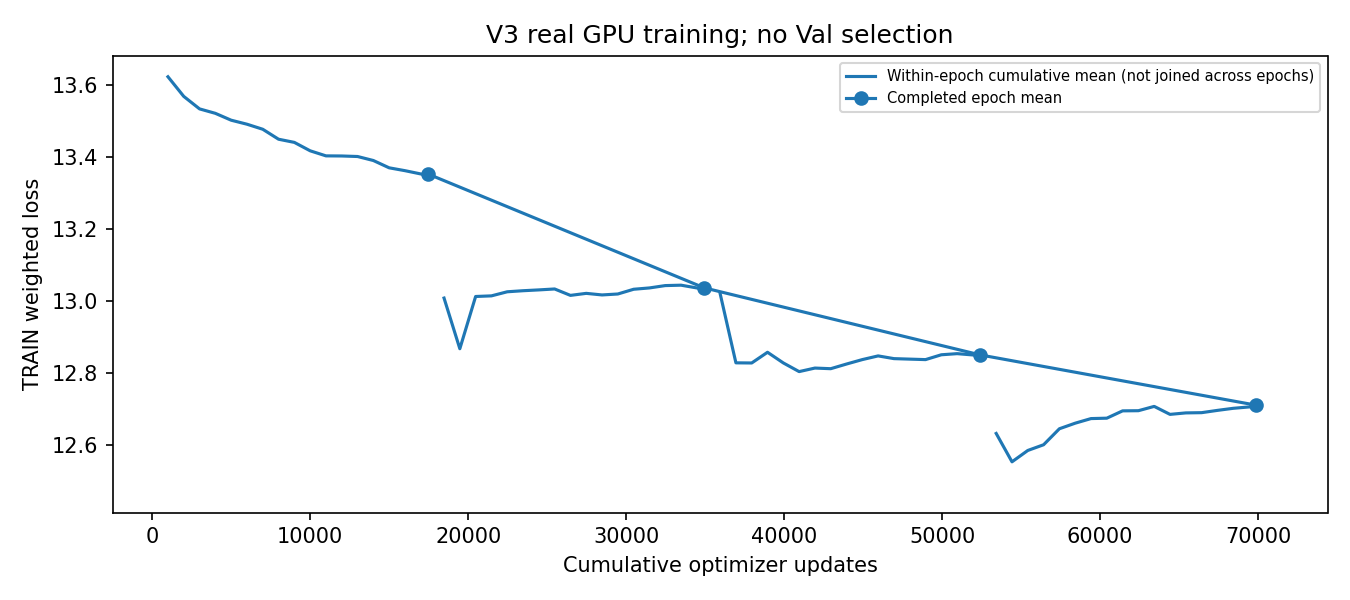
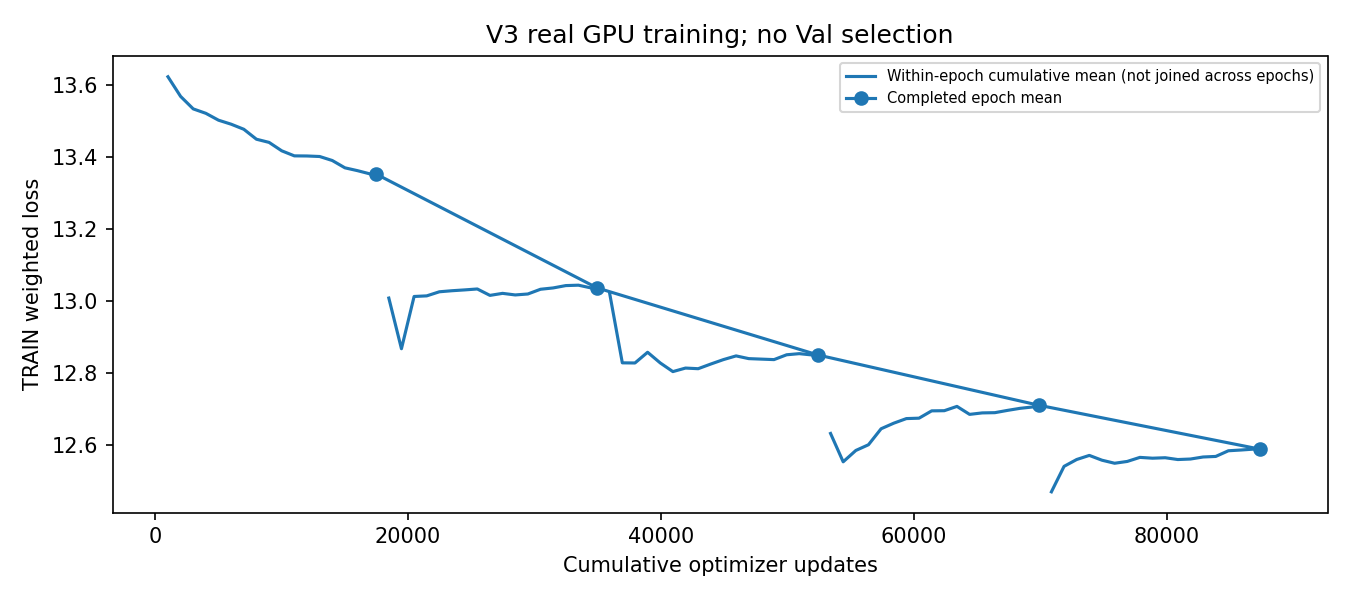
perf(v3): skip ignored RGB encoding for geometry ablation; record fifth epoch and text audit

diff --git a/graphnav/unified_pgvb_v3_runtime.py b/graphnav/unified_pgvb_v3_runtime.py
@@ -17,7 +17,7 @@ from .checkpointing import file_sha256
 from .full_localization import GoalField
 
 class V3CausalBelief:
-    def __init__(self,source_v2,checkpoint,directory,device='cuda'):
+    def __init__(self,source_v2,checkpoint,directory,device='cuda',skip_rgb_encoder=False):
         self.device=torch.device(device);self.directory=Path(directory);self.directory.mkdir(parents=True,exist_ok=True)
         bundle=torch.load(checkpoint,map_location='cpu',weights_only=True)
         if bundle.get('format')!=V3_FORMAT or bundle['manifest']['source_v2_sha256']!=file_sha256(source_v2):
@@ -25,7 +25,8 @@ class V3CausalBelief:
         geom,self.cfg=_load_base(source_v2,device);self.model=UnifiedPGVBV3(geom).to(device)
         self.model.load_state_dict(bundle['model'],strict=True);self.model.eval().requires_grad_(False)
         self.bert=FrozenBERTTokens(self.cfg.text_backbone,device=device,max_length=self.cfg.max_text_length)
-        self.native=ObservedSigLIPMatchingEncoder(device=device,microbatch=1)
+        self.skip_rgb_encoder=bool(skip_rgb_encoder)
+        self.native=None if self.skip_rgb_encoder else ObservedSigLIPMatchingEncoder(device=device,microbatch=1)
         self.frames=[];self.frame_keys=set();self.record=None
 
     @torch.no_grad()
@@ -38,16 +39,16 @@ class V3CausalBelief:
         ds=FullCandidateDataset(path,grid_size=28,max_landmarks=self.cfg.max_landmarks,max_roads=self.cfg.max_roads,max_relations=self.cfg.max_relations,prior_sigma_m=self.cfg.prior_sigma_m,rule_sigma_m=self.cfg.rule_sigma_m,deduplicate_queries=False)
         static,tokens,mask,names=_batch_inputs(collate_full([ds[0]]),self.bert,self.device,'geometry')
         self.static={k:static[k] for k in STATIC_KEYS};self.tokens=tokens.half().float();self.mask=mask;self.names=names.half().float()
-        self.text=self.native.texts([instruction]).half().float();self.bounds=torch.tensor([world_bounds],device=self.device,dtype=torch.float32)
+        self.text=torch.zeros(1,1024,device=self.device) if self.skip_rgb_encoder else self.native.texts([instruction]).half().float();self.bounds=torch.tensor([world_bounds],device=self.device,dtype=torch.float32)
 
     @torch.no_grad()
     def observe(self,*,observation,pose,geometry_only=False):
         if self.record is None:raise RuntimeError('Call start with public inputs')
-        key=self.native.image_key(observation['bgr'])+hashlib.sha256(
+        key=ObservedSigLIPMatchingEncoder.image_key(observation['bgr'])+hashlib.sha256(
             np.asarray(observation['footprint_world'],dtype=np.float64).tobytes()+np.asarray(pose,dtype=np.float64).tobytes()
             +np.asarray(observation['depth_valid'],dtype=np.bool_).tobytes()).hexdigest()
         depth,valid=_depth_patch_tensor(observation)
-        if not self.record['landmarks']:valid.zero_()
+        if self.skip_rgb_encoder or not self.record['landmarks']:valid.zero_()
         if key not in self.frame_keys:
             if valid.any():
                 image=self.native.processor(images=[cv2.cvtColor(observation['bgr'],cv2.COLOR_BGR2RGB)],return_tensors='pt').to(self.device)
@@ -86,7 +87,7 @@ class V3NavigationPolicy:
     """Unchanged original Trajectory/Stop applied to V3's aligned dense GoalField."""
     def __init__(self,source_v2,checkpoint,stage1,directory,*,geometry_only=False):
         from .trajectory_policy import CandidateTrajectoryStop
-        self.belief=V3CausalBelief(source_v2,checkpoint,directory)
+        self.belief=V3CausalBelief(source_v2,checkpoint,directory,skip_rgb_encoder=geometry_only)
         self.device=self.belief.device;self.geometry_only=geometry_only
         source=torch.load(source_v2,map_location='cpu',weights_only=True)
         stage=torch.load(stage1,map_location='cpu',weights_only=True)

diff --git a/scripts/audit_v3_train_text_lengths.py b/scripts/audit_v3_train_text_lengths.py
@@ -1,0 +1,27 @@
+"""TRAIN-only tokenizer audit; no GT labels, model forward or parameter tuning."""
+import argparse,json
+from pathlib import Path
+import numpy as np
+import torch
+from transformers import AutoConfig,AutoTokenizer
+from graphnav.checkpointing import atomic_json,file_sha256
+
+def main():
+    p=argparse.ArgumentParser()
+    for k in ['source-v2','train-jsonl','output']:p.add_argument('--'+k,type=Path,required=True)
+    a=p.parse_args();cfg=torch.load(a.source_v2,map_location='cpu',weights_only=True)['config']['geometry_args']
+    # Read only public text/map fields; do not expose record labels to tokenizer input.
+    data=[dict(instruction=d['instruction'],map_name=d['map_name']) for d in map(json.loads,a.train_jsonl.read_text().splitlines())]
+    if len(data)!=21878:raise ValueError('Expected full Revised TRAIN')
+    models=[('bert',cfg['text_backbone'],int(cfg['max_text_length'])),('siglip','google/siglip2-large-patch16-384',int(AutoConfig.from_pretrained('google/siglip2-large-patch16-384',local_files_only=True).text_config.max_position_embeddings))]
+    result=dict(N=len(data),source_sha256=file_sha256(a.train_jsonl),uses_target_labels=False,encoders={})
+    for kind,name,limit in models:
+        tokenizer=AutoTokenizer.from_pretrained(name,local_files_only=True);counts=[]
+        for at in range(0,len(data),256):
+            batch=tokenizer([d['instruction'] for d in data[at:at+256]],truncation=False,padding=False,return_length=True)
+            counts.extend(len(x) for x in batch['input_ids'])
+        values=np.asarray(counts);longest=np.argsort(values)[-10:][::-1]
+        result['encoders'][kind]=dict(name=name,configured_token_limit=limit,truncated_queries=int((values>limit).sum()),truncated_fraction=float((values>limit).mean()),token_length_percentiles={str(q):float(np.percentile(values,q)) for q in [0,25,50,75,90,95,99,100]},
+            longest_examples=[dict(index=int(i),tokens=int(values[i]),map_name=data[i]['map_name'],instruction=data[i]['instruction']) for i in longest])
+    atomic_json(result,a.output);print(json.dumps({k:{s:v for s,v in d.items() if s!='longest_examples'} for k,d in result['encoders'].items()},indent=2))
+if __name__=='__main__':main()

diff --git a/scripts/report_unified_pgvb_v3_training.py b/scripts/report_unified_pgvb_v3_training.py
@@ -58,7 +58,14 @@ def main():
         for name,m in nav.items():
             z=m['metrics'];report.append(f'|{name}|{z["SR"]*100:.2f}%|{z["OSR"]*100:.2f}%|{z["SPL"]:.4f}|{z["NE"]:.3f}|{z["nDTW"]:.4f}|')
     else:report+=['','尚无完整闭环结果，不宣称SR提升。']
-    report+=['','训练原始日志/权重留在服务器：`'+str(r)+'`。本报告只汇总真实文件，不预测未完成结果。']
+    audit=r/'text_length_audit.json'
+    if audit.exists():
+        lengths=json.loads(audit.read_text());shutil.copyfile(audit,o/'text_length_audit.json')
+        report+=['','## TRAIN输入长度核验','']
+        for name,values in lengths['encoders'].items():
+            report.append(f"{name}: 上限{values['configured_token_limit']} tokens，截断{values['truncated_queries']}/{lengths['N']}（{values['truncated_fraction']*100:.2f}%）。")
+        report+=['这仅说明大范围文本截断不成立，不代表关系理解正确。本轮不改变token上限。']
+    report+=['','推理时延须区分policy逐步耗时和含Query初始化耗时；环境正射渲染不计入原policy计时口径。Geometry-only跳过不参与决策的SigLIP编码，已通过TRAIN GPU几何logits一致性核验。','', '训练原始日志/权重留在服务器：`'+str(r)+'`。本报告只汇总真实文件，不预测未完成结果。']
     (o/'REPORT_zh.md').write_text('\n'.join(report)+'\n');(o/'index.html').write_text('<!doctype html><meta charset="utf-8"><title>V3 Training</title><h1>V3 TRAIN曲线；不是导航SR</h1><a href="REPORT_zh.md">中文报告</a><br><img src="training_loss.png"><img width="1200" src="loss_components.png">')
     print(json.dumps(dict(completed_epochs=len(epochs),train_finished=final is not None),indent=2))
 if __name__=='__main__':main()

diff --git a/scripts/evaluate_unified_pgvb_v3_navigation.py b/scripts/evaluate_unified_pgvb_v3_navigation.py
@@ -46,10 +46,14 @@ def main():
         if dest.exists():continue
         record=ds[i]
         public=PublicEpisode(record.map_name,record.instruction,record.start_pose.copy(),(),())
+        init_started=time.perf_counter()
         runtime.set_episode(public,builder.transform(record.map_name),catalog)
+        query_init_seconds=time.perf_counter()-init_started
         # Same original controller/Stop; teacher trajectory/target only enter score_trace AFTER rollout.
         poses,termination,timings,diagnostics=rollout(public,builder,controller,runtime.predict,GROUND_LEVEL[record.map_name],protocol,synchronize=torch.cuda.synchronize)
         metrics=score_trace(poses,record.target_position,record.trajectory,termination,radius=protocol.success_radius_m,decision_seconds=timings)
+        metrics["query_init_ms"]=query_init_seconds*1000
+        metrics["inference_including_query_init_ms"]=(sum(timings)+query_init_seconds)/max(len(timings),1)*1000
         atomic_json(dict(index=i,episode_id=list(record.episode_id),poses=poses.tolist(),termination=termination,metrics=metrics,diagnostics=diagnostics),dest)
         if (i+1)%10==0:print(json.dumps(dict(completed=i+1,expected=len(ds))),flush=True)
     rows=[json.loads((a.output/'rows'/f'{i:05d}.json').read_text()) for i in range(len(ds))]
